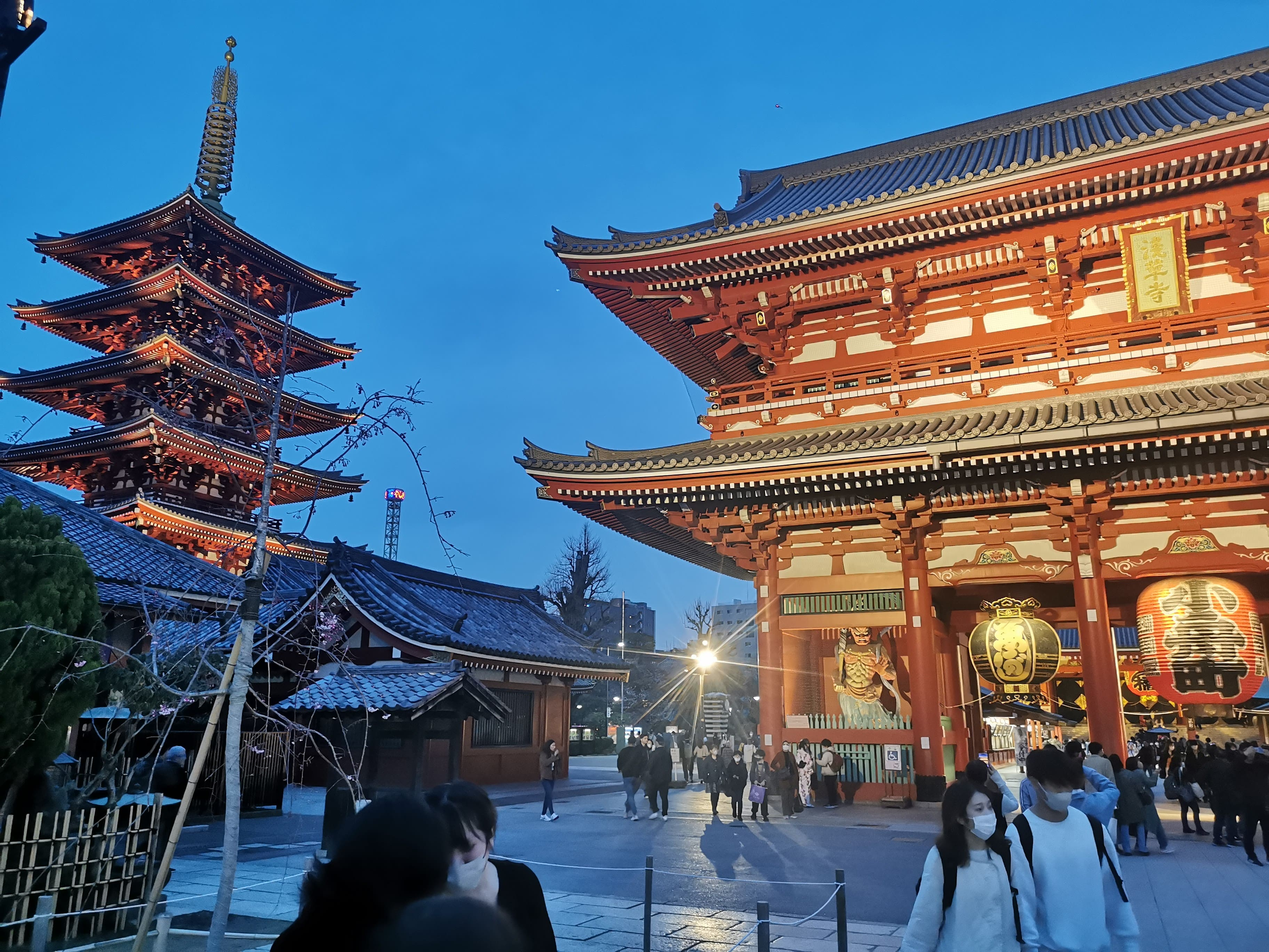
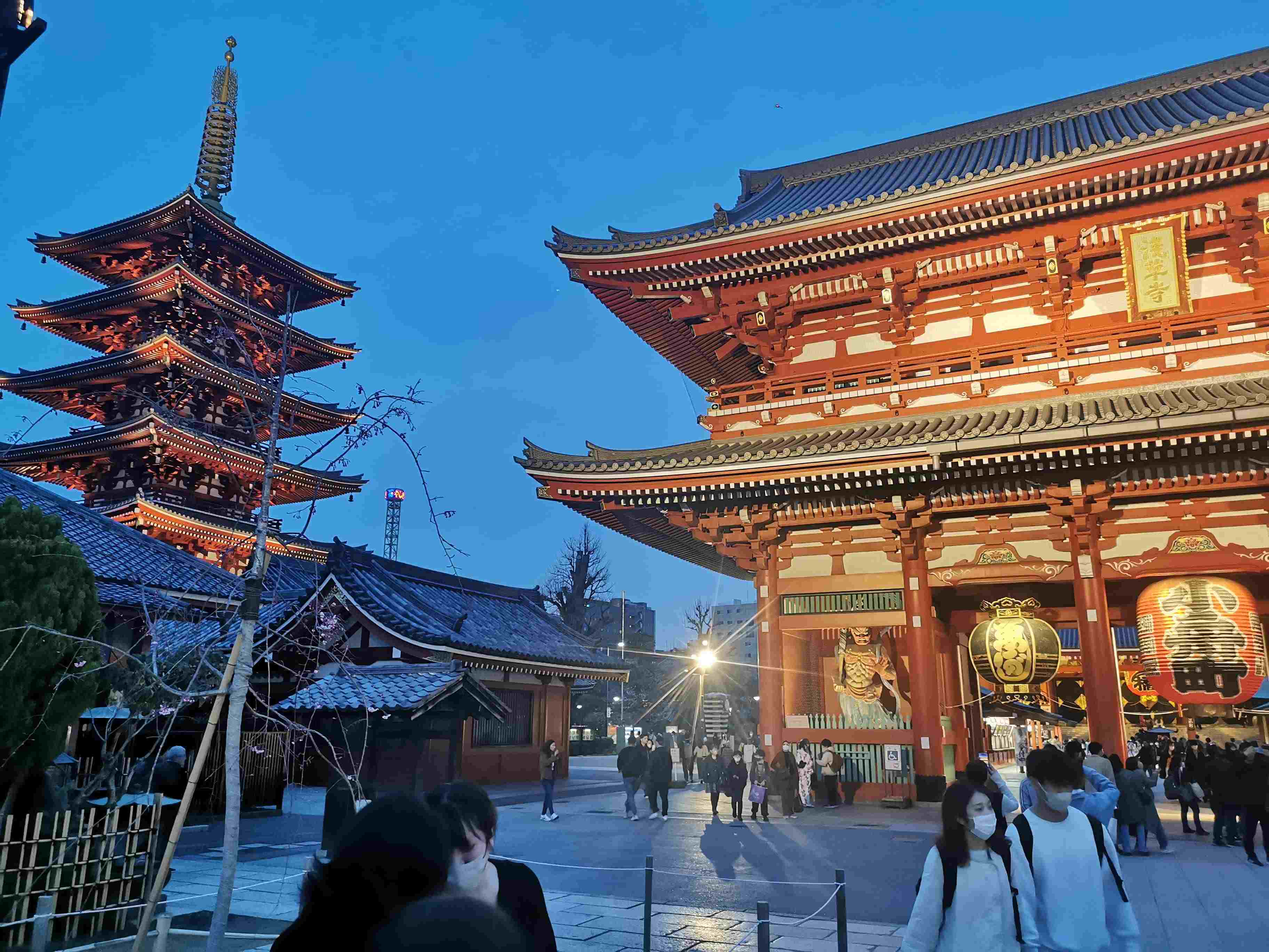
refactor: optimize images and change flex in projects

diff --git a/src/components/Navbar.jsx b/src/components/Navbar.jsx
@@ -6,8 +6,11 @@ import { useNavigate } from "react-router";
 const Navbar = () => {
     const [hamburgerOpen, setHamburgerOpen] = useState(false);
     const navigate = useNavigate();
+    const navigateTo = (link) => {
+        toggleHamburgerMenu();
+        navigate(link);
+    };
     const toggleHamburgerMenu = () => {
-        console.log(!hamburgerOpen);
         setHamburgerOpen(!hamburgerOpen);
     };
     return (
@@ -29,18 +32,23 @@ const Navbar = () => {
                                 ? "top-[56px] p-5 text-2xl font-bold shadow-lg md:text-base"
                                 : ""
                         } nav-links absolute left-0 top-[-100%]
-                        flex min-h-[150px] w-full items-start justify-center bg-gray-50 px-5 md:static md:min-h-fit md:w-auto`}
-                    >
+                        flex min-h-[150px] w-full items-start justify-center bg-gray-50 px-5 md:static md:min-h-fit md:w-auto`}>
                         <ul className="flex flex-col items-start gap-4 md:flex-row md:items-start md:gap-[4vw] ">
                             {navItems.map((item) => {
                                 return (
                                     <li
                                         className="text-primary-blue cursor-pointer"
-                                        key={item.name}
-                                    >
+                                        key={item.name}>
                                         <div
-                                            onClick={() => navigate(item.link)}
-                                        >
+                                            className="md:hidden"
+                                            onClick={() =>
+                                                navigateTo(item.link)
+                                            }>
+                                            {item.name}
+                                        </div>
+                                        <div
+                                            className="hidden md:block"
+                                            onClick={() => navigate(item.link)}>
                                             {item.name}
                                         </div>
                                     </li>
@@ -56,8 +64,7 @@ const Navbar = () => {
                         <div
                             name="menu"
                             className="cursor-pointer text-3xl md:hidden"
-                            onClick={toggleHamburgerMenu}
-                        >
+                            onClick={toggleHamburgerMenu}>
                             {hamburgerOpen ? (
                                 <svg
                                     xmlns="http://www.w3.org/2000/svg"
@@ -65,8 +72,7 @@ const Navbar = () => {
                                     viewBox="0 0 24 24"
                                     strokeWidth="2.5"
                                     stroke="currentColor"
-                                    className="h-6 w-6"
-                                >
+                                    className="h-6 w-6">
                                     <path
                                         strokeLinecap="round"
                                         strokeLinejoin="round"
@@ -80,8 +86,7 @@ const Navbar = () => {
                                     viewBox="0 0 24 24"
                                     strokeWidth="2.5"
                                     stroke="currentColor"
-                                    className="h-6 w-6"
-                                >
+                                    className="h-6 w-6">
                                     <path
                                         strokeLinecap="round"
                                         strokeLinejoin="round"

diff --git a/src/components/Projects.jsx b/src/components/Projects.jsx
@@ -5,35 +5,39 @@ const Projects = () => {
     const navigate = useNavigate();
     return (
         <div className="container bg-white">
-            <h1 className="mb-1 mt-2 text-center text-4xl font-bold text-primary">
+            <h1 className="mb-3 mt-2 text-center text-4xl font-bold text-primary">
                 Projects
             </h1>
-            {projectList.map((project) => {
-                return (
-                    <div
-                        className="animation m-3 rounded-lg bg-gray-50 p-3 duration-150 
-                        hover:scale-101 hover:shadow-[5px_5px_0px_0px_rgba(100,108,255)]"
-                        id={project.id}>
-                        <h2 className="mb-1 mt-2 text-2xl font-bold text-secondary">
-                            {project.name}
-                        </h2>
-                        <p className="text-gray-600">
-                            {project.descriptionShort}
-                        </p>
-                        <h3 className="mb-1 mt-2 text-xl font-bold text-secondary">
-                            Technologies
-                        </h3>
-                        <p className="text-gray-600">
-                            {project.technologies.join(", ")}
-                        </p>
+            <div className="flex flex-row flex-wrap justify-around">
+                {projectList.map((project) => {
+                    return (
                         <div
-                            className="text-l mt-3 font-bold text-secondary hover:cursor-pointer"
-                            onClick={() => navigate(`/projects/${project.id}`)}>
-                            Learn more {">"}
+                            className="animation m-2 my-3 w-[300px] rounded-lg bg-gray-100 p-3
+                        duration-150 hover:scale-101 hover:shadow-[5px_5px_0px_0px_rgba(100,108,255)]"
+                            key={project.id}>
+                            <h2 className="mb-1 mt-2 text-2xl font-bold text-secondary">
+                                {project.name}
+                            </h2>
+                            <p className="text-gray-600">
+                                {project.descriptionShort}
+                            </p>
+                            <h3 className="mb-1 mt-2 text-xl font-bold text-secondary">
+                                Technologies
+                            </h3>
+                            <p className="text-gray-600">
+                                {project.technologies.join(", ")}
+                            </p>
+                            <div
+                                className="text-l mt-3 font-bold text-secondary hover:cursor-pointer"
+                                onClick={() =>
+                                    navigate(`/projects/${project.id}`)
+                                }>
+                                Learn more {">"}
+                            </div>
                         </div>
-                    </div>
-                );
-            })}
+                    );
+                })}
+            </div>
         </div>
     );
 };

diff --git a/src/components/About.jsx b/src/components/About.jsx
@@ -126,9 +126,9 @@ const ImageGrid = ({ images }) => {
                 <React.Fragment key={index}>
                     <div className="w-auto flex-none md:w-auto">
                         <div
-                            className={`flex h-20 w-20 
-                      animate-pulse items-center justify-center rounded-lg
-                      bg-gray-100 object-cover ${
+                            className={`flex h-20 w-20 animate-pulse
+                      items-center justify-center rounded-lg bg-gray-100
+                      object-cover lg:h-32 ${
                           loading ? "hidden md:block" : "hidden"
                       }`}></div>
                         <div>
@@ -151,9 +151,9 @@ const ImageGrid = ({ images }) => {
 const Timeline = () => {
     return (
         <div className="container bg-white">
-            <ol className="relative border-s border-gray-200 pr-2 dark:border-gray-700">
+            <ol className="relative m-3 border-s border-gray-200 pr-2 dark:border-gray-700">
                 <li className="mb-10 ms-6">
-                    <span className="absolute -start-3 flex h-6 w-6 items-center justify-center rounded-full bg-gray-50 ring-8 ring-white dark:bg-blue-900 dark:ring-gray-900">
+                    <span className="absolute -start-3 flex h-6 w-6 items-center justify-center rounded-full bg-white ring-8 ring-white dark:bg-blue-900 dark:ring-gray-900">
                         <img src="./about/vw.png" className="h-6 w-6" />
                     </span>
                     <h3 className="mb-1 text-lg font-semibold text-gray-900 dark:text-white">
@@ -194,7 +194,7 @@ const Timeline = () => {
                     </ul>
                 </li>
                 <li className="mb-10 ms-6">
-                    <span className="absolute -start-3 flex h-6 w-6 items-center justify-center rounded-full bg-gray-50 ring-8 ring-white dark:bg-blue-900 dark:ring-gray-900">
+                    <span className="absolute -start-3 flex h-6 w-6 items-center justify-center rounded-full bg-white ring-8 ring-white dark:bg-blue-900 dark:ring-gray-900">
                         <img src="./about/iut.png" className="h-3.5 w-3.5" />
                     </span>
                     <h3 className="mb-1 text-lg font-semibold text-gray-900 dark:text-white">
@@ -242,7 +242,7 @@ const Timeline = () => {
                     </div>
                 </li>
                 <li className="mb-10 ms-6">
-                    <span className="absolute -start-3 flex h-6 w-6 items-center justify-center rounded-full bg-gray-50 ring-8 ring-white dark:bg-blue-900 dark:ring-gray-900">
+                    <span className="absolute -start-3 flex h-6 w-6 items-center justify-center rounded-full bg-white ring-8 ring-white dark:bg-blue-900 dark:ring-gray-900">
                         <img
                             src="./about/ostfalia.png"
                             className="h-3.5 w-3.5"

diff --git a/src/helper/projectList.js b/src/helper/projectList.js
@@ -14,7 +14,7 @@ export const projectList = [
             "MySQL",
             "Electron"
         ],
-        imageMain: "tib-main.png"
+        imageMain: "tib.png"
     },
     {
         id: 2,
@@ -24,6 +24,30 @@ export const projectList = [
         descriptionLong: `TIB is a web application that enhances the communication between teams and their team leaders.
             TIB is a web application that enhances the communication between teams and their team leaders.`,
         technologies: ["Wordpress", "React", "TailwindCSS"],
-        imageMain: "ki4all-main.png"
+        imageMain: "./projects/ki4all.png"
+    },
+    {
+        id: 3,
+        name: "Webpizza",
+        descriptionShort:
+            "University project: Creating a web application that allows users to order pizza.",
+        descriptionLong: `TIB is a web application that enhances the communication between teams and their team leaders.
+            TIB is a web application that enhances the communication between teams and their team leaders.`,
+        technologies: ["Python", "Django", "SQLite", "Bootstrap"],
+        imageMain: "./projects/ki4all.png"
+    },
+    {
+        id: 99,
+        name: "nikitawager.de",
+        descriptionShort: "Creating and maintaining personal website",
+        descriptionLong: `TIB is a web application that enhances the communication between teams and their team leaders.
+            TIB is a web application that enhances the communication between teams and their team leaders.`,
+        technologies: [
+            "React",
+            "TailwindCSS",
+            "Github Actions",
+            "Ubunutu Server"
+        ],
+        imageMain: "./projects/ki4all.png"
     }
 ];

diff --git a/tailwind.config.js b/tailwind.config.js
@@ -18,7 +18,8 @@ export default {
                 97: "0.97"
             },
             animation: {
-                "infinite-scroll": "infinite-scroll 100s linear infinite"
+                "infinite-scroll": "infinite-scroll 100s linear infinite",
+                "infinite-scroll-fast": "infinite-scroll 50s linear infinite"
             },
             keyframes: {
                 "infinite-scroll": {

diff --git a/src/components/CV.jsx b/src/components/CV.jsx
@@ -16,7 +16,7 @@ const CV = () => {
                     return <CV_Box language={language} key={index} />;
                 })}
             </div>
-            <p className="text-center font-thin">
+            <p className="mt-2 text-center font-thin">
                 {"("}last updated 2023-11-23{")"}
             </p>
         </div>
